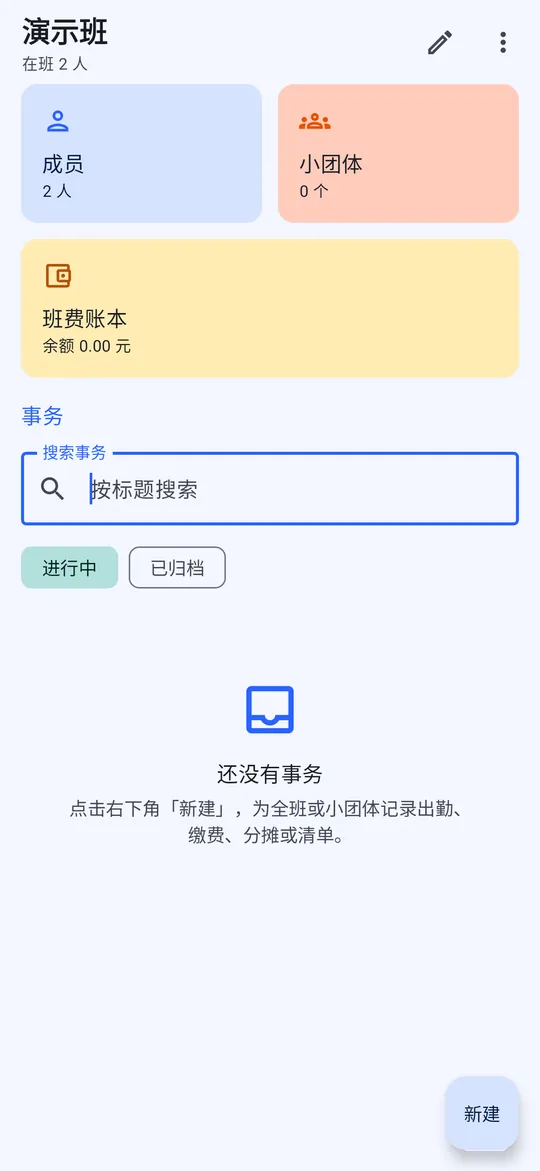
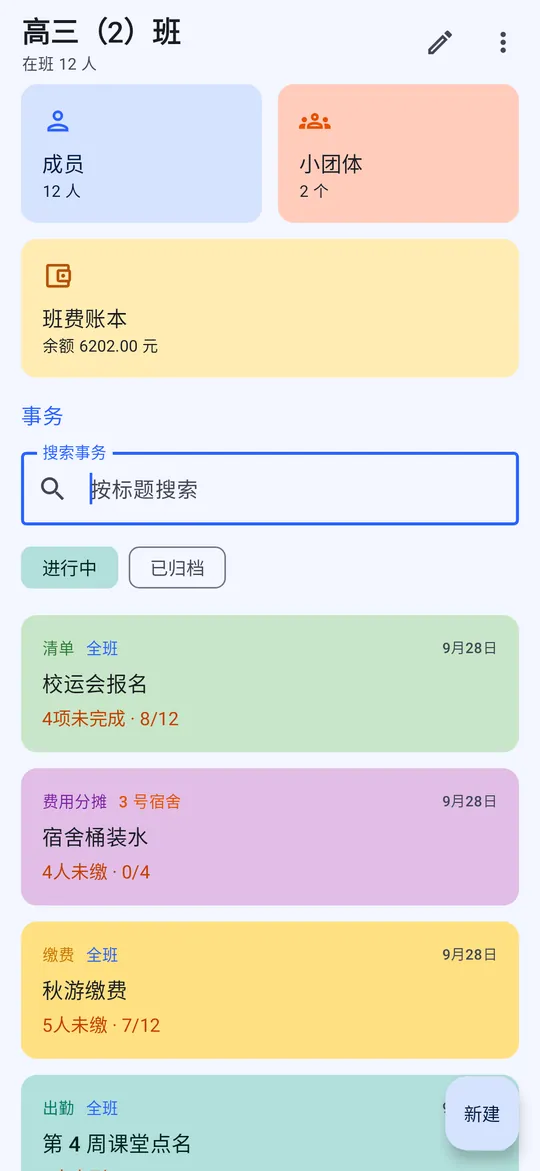
Re-capture site screenshots with richer demo data
Freeze Robolectric clock to 2026-09-28 for 轻记账 stats/budget,
seed class activities and ledger for 班级事务记录, and show C-week
learning progress. Update class-record gallery paths and cache bust.

diff --git a/site/index.html b/site/index.html
@@ -101,7 +101,7 @@
                     <div class="phone-frame screenshot-phone">
                       <div class="phone-notch"><span></span></div>
                       <div class="phone-screen">
-                        <img src="/assets/screens/cweek/01-home.webp?v=1" width="540" height="1171" loading="lazy" alt="C一周通本周课程首页，7 天路线与总体进度" />
+                        <img src="/assets/screens/cweek/01-home.webp?v=2" width="540" height="1171" loading="lazy" alt="C一周通本周课程首页，7 天路线与总体进度" />
                       </div>
                     </div>
                     <figcaption class="screenshot-caption">本周课程首页 · 7 天路线与进度</figcaption>
@@ -112,7 +112,7 @@
                     <div class="phone-frame screenshot-phone">
                       <div class="phone-notch"><span></span></div>
                       <div class="phone-screen">
-                        <img src="/assets/screens/cweek/02-day1.webp?v=1" width="540" height="1171" loading="lazy" alt="C一周通第 1 天详情，微课、实验与测验入口" />
+                        <img src="/assets/screens/cweek/02-day1.webp?v=2" width="540" height="1171" loading="lazy" alt="C一周通第 1 天详情，微课、实验与测验入口" />
                       </div>
                     </div>
                     <figcaption class="screenshot-caption">第 1 天详情 · 微课 / 实验 / 测验</figcaption>
@@ -123,7 +123,7 @@
                     <div class="phone-frame screenshot-phone">
                       <div class="phone-notch"><span></span></div>
                       <div class="phone-screen">
-                        <img src="/assets/screens/cweek/03-lesson.webp?v=1" width="540" height="1171" loading="lazy" alt="C一周通课文阅读界面，含代码示例与 VS Code 演示入口" />
+                        <img src="/assets/screens/cweek/03-lesson.webp?v=2" width="540" height="1171" loading="lazy" alt="C一周通课文阅读界面，含代码示例与 VS Code 演示入口" />
                       </div>
                     </div>
                     <figcaption class="screenshot-caption">课文阅读 · 代码与 VS Code 演示</figcaption>
@@ -134,7 +134,7 @@
                     <div class="phone-frame screenshot-phone">
                       <div class="phone-notch"><span></span></div>
                       <div class="phone-screen">
-                        <img src="/assets/screens/cweek/04-quiz.webp?v=1" width="540" height="1171" loading="lazy" alt="C一周通今日测验界面，提交后记入学习进度" />
+                        <img src="/assets/screens/cweek/04-quiz.webp?v=2" width="540" height="1171" loading="lazy" alt="C一周通今日测验界面，提交后记入学习进度" />
                       </div>
                     </div>
                     <figcaption class="screenshot-caption">今日测验 · 提交后记入进度</figcaption>
@@ -145,7 +145,7 @@
                     <div class="phone-frame screenshot-phone">
                       <div class="phone-notch"><span></span></div>
                       <div class="phone-screen">
-                        <img src="/assets/screens/cweek/05-labs.webp?v=1" width="540" height="1171" loading="lazy" alt="C一周通代码实验列表，离线模拟评测" />
+                        <img src="/assets/screens/cweek/05-labs.webp?v=2" width="540" height="1171" loading="lazy" alt="C一周通代码实验列表，离线模拟评测" />
                       </div>
                     </div>
                     <figcaption class="screenshot-caption">代码实验 · 离线模拟评测</figcaption>
@@ -156,7 +156,7 @@
                     <div class="phone-frame screenshot-phone">
                       <div class="phone-notch"><span></span></div>
                       <div class="phone-screen">
-                        <img src="/assets/screens/cweek/06-report.webp?v=1" width="540" height="1171" loading="lazy" alt="C一周通学习报告，连续打卡与测验正确率" />
+                        <img src="/assets/screens/cweek/06-report.webp?v=2" width="540" height="1171" loading="lazy" alt="C一周通学习报告，连续打卡与测验正确率" />
                       </div>
                     </div>
                     <figcaption class="screenshot-caption">学习报告 · 打卡与正确率</figcaption>
@@ -321,7 +321,7 @@
                   <div class="phone-frame screenshot-phone">
                     <div class="phone-notch"><span></span></div>
                     <div class="phone-screen">
-                      <img src="/assets/screens/cweek/01-home.webp?v=1" width="540" height="1171" loading="lazy" alt="C一周通本周课程首页" />
+                      <img src="/assets/screens/cweek/01-home.webp?v=2" width="540" height="1171" loading="lazy" alt="C一周通本周课程首页" />
                     </div>
                   </div>
                   <figcaption class="screenshot-caption">本周课程首页</figcaption>
@@ -332,7 +332,7 @@
                   <div class="phone-frame screenshot-phone">
                     <div class="phone-notch"><span></span></div>
                     <div class="phone-screen">
-                      <img src="/assets/screens/cweek/03-lesson.webp?v=1" width="540" height="1171" loading="lazy" alt="C一周通课文与 VS Code 演示" />
+                      <img src="/assets/screens/cweek/03-lesson.webp?v=2" width="540" height="1171" loading="lazy" alt="C一周通课文与 VS Code 演示" />
                     </div>
                   </div>
                   <figcaption class="screenshot-caption">课文 · VS Code 演示入口</figcaption>
@@ -343,7 +343,7 @@
                   <div class="phone-frame screenshot-phone">
                     <div class="phone-notch"><span></span></div>
                     <div class="phone-screen">
-                      <img src="/assets/screens/cweek/05-labs.webp?v=1" width="540" height="1171" loading="lazy" alt="C一周通代码实验与评测" />
+                      <img src="/assets/screens/cweek/05-labs.webp?v=2" width="540" height="1171" loading="lazy" alt="C一周通代码实验与评测" />
                     </div>
                   </div>
                   <figcaption class="screenshot-caption">实验 · 多组用例评测</figcaption>
@@ -438,7 +438,7 @@
                       <div class="phone-frame screenshot-phone">
                         <div class="phone-notch"><span></span></div>
                         <div class="phone-screen">
-                          <img src="/assets/screens/qingjizhang/01-home.webp?v=1" width="540" height="1171" loading="lazy" alt="轻记账首页，本月收支结余与预算概览" />
+                          <img src="/assets/screens/qingjizhang/01-home.webp?v=2" width="540" height="1171" loading="lazy" alt="轻记账首页，本月收支结余与预算概览" />
                         </div>
                       </div>
                       <figcaption class="screenshot-caption">首页 · 本月收支与预算</figcaption>
@@ -449,7 +449,7 @@
                       <div class="phone-frame screenshot-phone">
                         <div class="phone-notch"><span></span></div>
                         <div class="phone-screen">
-                          <img src="/assets/screens/qingjizhang/02-entries.webp?v=1" width="540" height="1171" loading="lazy" alt="轻记账流水明细，搜索与筛选" />
+                          <img src="/assets/screens/qingjizhang/02-entries.webp?v=2" width="540" height="1171" loading="lazy" alt="轻记账流水明细，搜索与筛选" />
                         </div>
                       </div>
                       <figcaption class="screenshot-caption">明细 · 流水与筛选</figcaption>
@@ -460,7 +460,7 @@
                       <div class="phone-frame screenshot-phone">
                         <div class="phone-notch"><span></span></div>
                         <div class="phone-screen">
-                          <img src="/assets/screens/qingjizhang/03-stats.webp?v=1" width="540" height="1171" loading="lazy" alt="轻记账统计页，分类饼图与趋势" />
+                          <img src="/assets/screens/qingjizhang/03-stats.webp?v=2" width="540" height="1171" loading="lazy" alt="轻记账统计页，分类饼图与趋势" />
                         </div>
                       </div>
                       <figcaption class="screenshot-caption">统计 · 饼图与 12 个月趋势</figcaption>
@@ -471,7 +471,7 @@
                       <div class="phone-frame screenshot-phone">
                         <div class="phone-notch"><span></span></div>
                         <div class="phone-screen">
-                          <img src="/assets/screens/qingjizhang/04-budget.webp?v=1" width="540" height="1171" loading="lazy" alt="轻记账预算页，进度与超支提醒" />
+                          <img src="/assets/screens/qingjizhang/04-budget.webp?v=2" width="540" height="1171" loading="lazy" alt="轻记账预算页，进度与超支提醒" />
                         </div>
                       </div>
                       <figcaption class="screenshot-caption">预算 · 80% 警告与超支</figcaption>
@@ -482,7 +482,7 @@
                       <div class="phone-frame screenshot-phone">
                         <div class="phone-notch"><span></span></div>
                         <div class="phone-screen">
-                          <img src="/assets/screens/qingjizhang/05-mine.webp?v=1" width="540" height="1171" loading="lazy" alt="轻记账我的页面，账户分类与设置" />
+                          <img src="/assets/screens/qingjizhang/05-mine.webp?v=2" width="540" height="1171" loading="lazy" alt="轻记账我的页面，账户分类与设置" />
                         </div>
                       </div>
                       <figcaption class="screenshot-caption">我的 · 账户、分类与设置</figcaption>
@@ -584,7 +584,7 @@
                       <div class="phone-frame screenshot-phone">
                         <div class="phone-notch"><span></span></div>
                         <div class="phone-screen">
-                          <img src="/assets/screens/class-record/01-home.webp?v=1" width="540" height="1171" loading="lazy" alt="班级事务记录首页，班级与事务列表" />
+                          <img src="/assets/screens/class-record/01-home.webp?v=2" width="540" height="1171" loading="lazy" alt="班级事务记录首页，班级与事务列表" />
                         </div>
                       </div>
                       <figcaption class="screenshot-caption">首页 · 班级与事务列表</figcaption>
@@ -595,7 +595,29 @@
                       <div class="phone-frame screenshot-phone">
                         <div class="phone-notch"><span></span></div>
                         <div class="phone-screen">
-                          <img src="/assets/screens/class-record/02-ledger.webp?v=1" width="540" height="1171" loading="lazy" alt="班级事务记录班费账本，收支流水与余额" />
+                          <img src="/assets/screens/class-record/02-attendance.webp?v=2" width="540" height="1171" loading="lazy" alt="班级事务记录出勤点名，已到与请假状态" />
+                        </div>
+                      </div>
+                      <figcaption class="screenshot-caption">出勤点名 · 连续到课进度</figcaption>
+                    </figure>
+                  </li>
+                  <li class="screenshot-slide">
+                    <figure class="screenshot-figure">
+                      <div class="phone-frame screenshot-phone">
+                        <div class="phone-notch"><span></span></div>
+                        <div class="phone-screen">
+                          <img src="/assets/screens/class-record/03-payment.webp?v=2" width="540" height="1171" loading="lazy" alt="班级事务记录缴费事务，仅未完成筛选" />
+                        </div>
+                      </div>
+                      <figcaption class="screenshot-caption">缴费 · 未完成提醒与应缴</figcaption>
+                    </figure>
+                  </li>
+                  <li class="screenshot-slide">
+                    <figure class="screenshot-figure">
+                      <div class="phone-frame screenshot-phone">
+                        <div class="phone-notch"><span></span></div>
+                        <div class="phone-screen">
+                          <img src="/assets/screens/class-record/04-ledger.webp?v=2" width="540" height="1171" loading="lazy" alt="班级事务记录班费账本，收支流水与余额" />
                         </div>
                       </div>
                       <figcaption class="screenshot-caption">班费账本 · 收支与余额</figcaption>
@@ -606,21 +628,10 @@
                       <div class="phone-frame screenshot-phone">
                         <div class="phone-notch"><span></span></div>
                         <div class="phone-screen">
-                          <img src="/assets/screens/class-record/03-members.webp?v=1" width="540" height="1171" loading="lazy" alt="班级事务记录成员名单管理" />
+                          <img src="/assets/screens/class-record/05-members.webp?v=2" width="540" height="1171" loading="lazy" alt="班级事务记录成员名单管理" />
                         </div>
                       </div>
-                      <figcaption class="screenshot-caption">成员 · 名单与学号</figcaption>
-                    </figure>
-                  </li>
-                  <li class="screenshot-slide">
-                    <figure class="screenshot-figure">
-                      <div class="phone-frame screenshot-phone">
-                        <div class="phone-notch"><span></span></div>
-                        <div class="phone-screen">
-                          <img src="/assets/screens/class-record/04-wizard.webp?v=1" width="540" height="1171" loading="lazy" alt="班级事务记录新建事务向导" />
-                        </div>
-                      </div>
-                      <figcaption class="screenshot-caption">新建事务 · 出勤 / 缴费 / 分摊</figcaption>
+                      <figcaption class="screenshot-caption">成员 · 12 人名单与学号</figcaption>
                     </figure>
                   </li>
                 </ul>
